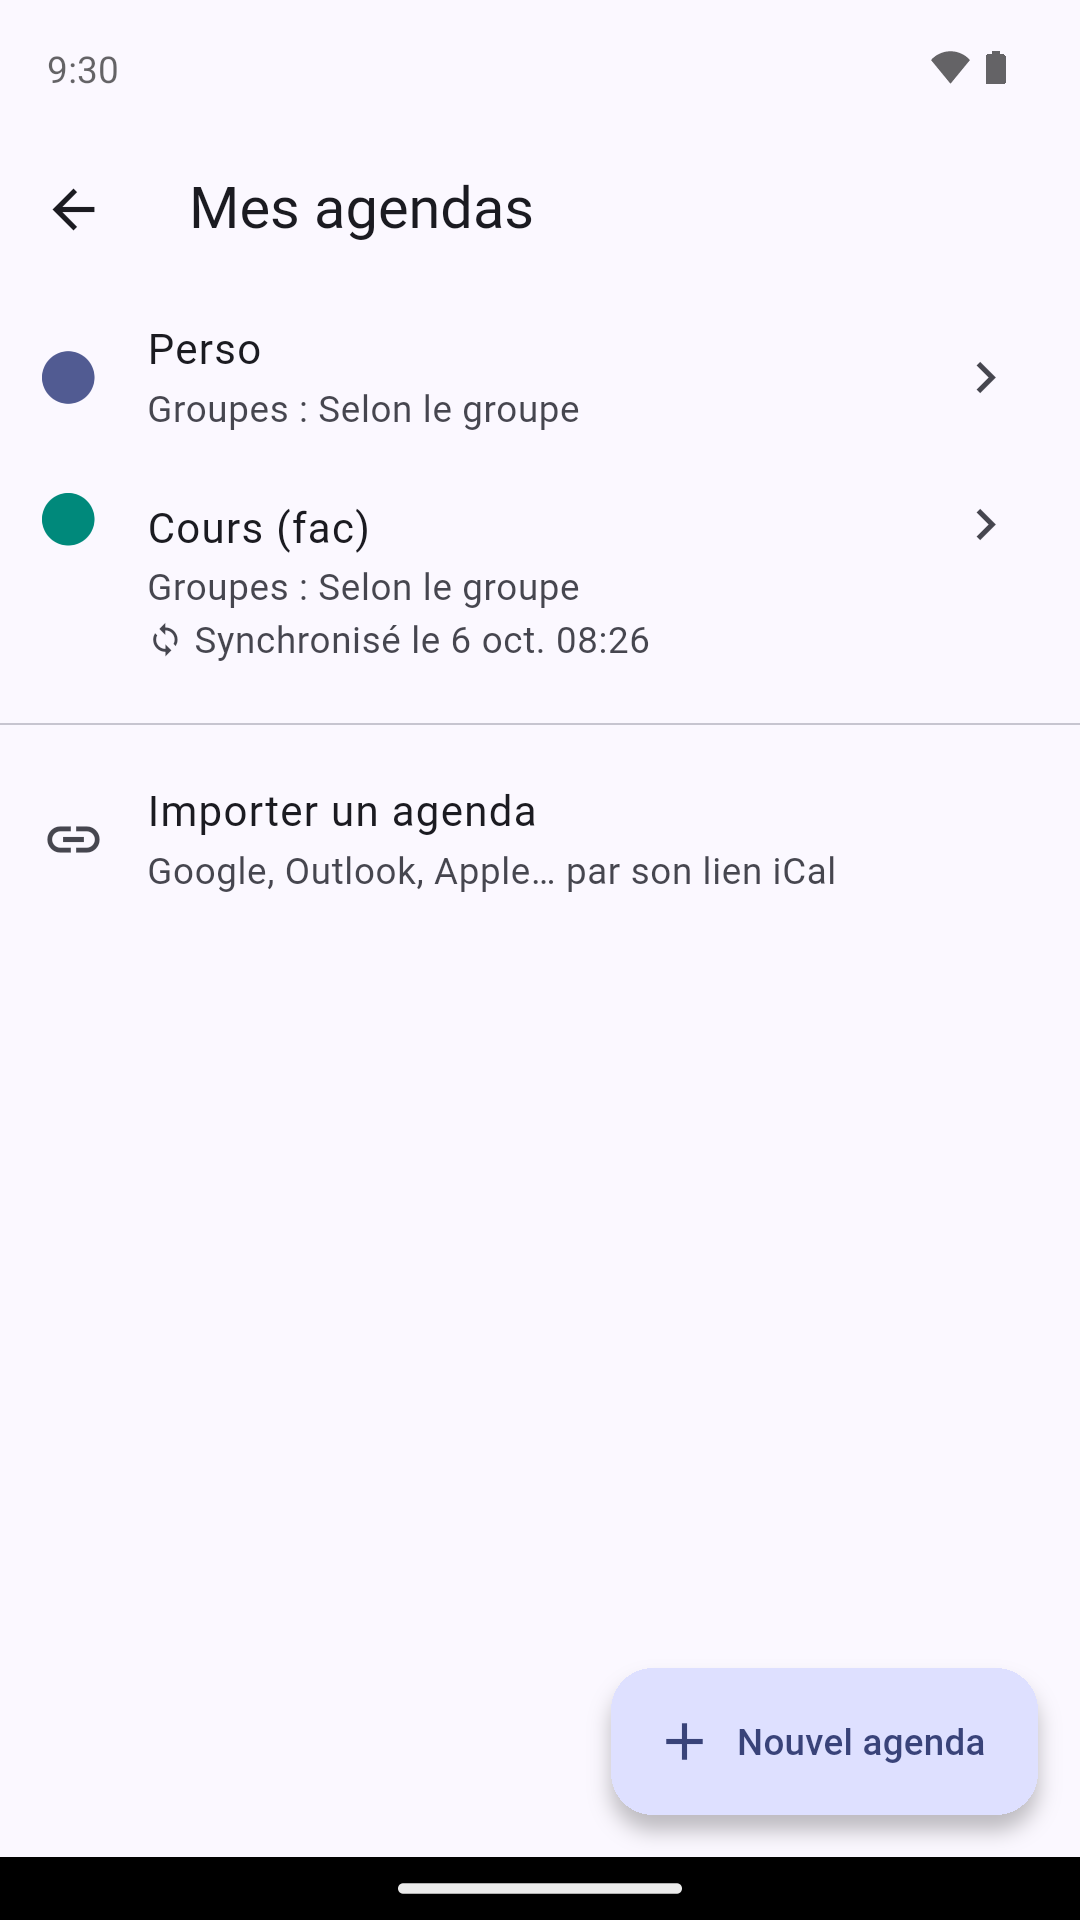
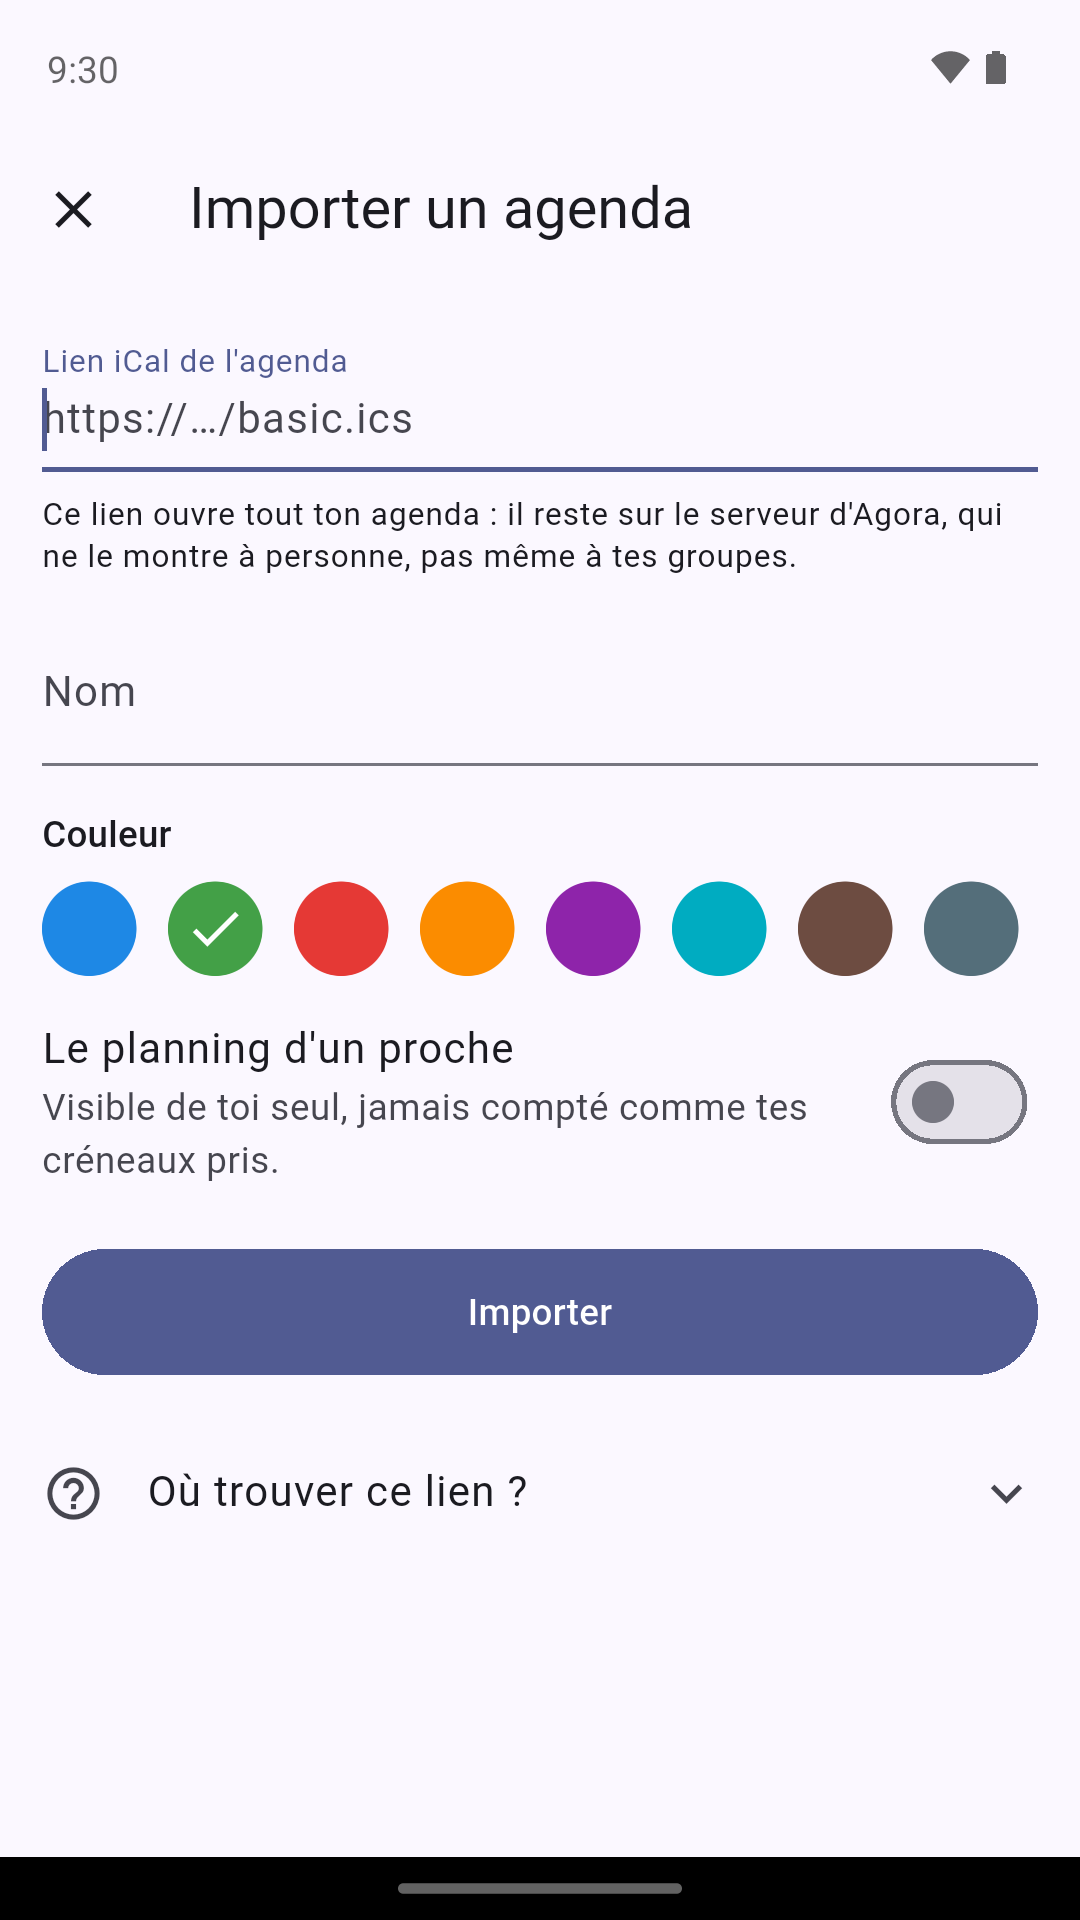
docs(store): capture 06 = l'écran d'import iCal, notes 0.8.2+14 publiée sur alpha

diff --git a/app/store/README.md b/app/store/README.md
@@ -27,7 +27,7 @@ fiche.
 Huit captures, dans l'ordre de la fiche : `01-agenda` (vue Planning),
 `02-groupe` (Coloc), `03-social` (onglet Social : anniversaire à venir, proche,
 groupes), `04-creneaux` (Trouver un créneau), `05-rdv` (la Raclette et ses
-réponses), `06-import` (Moi → Mes agendas), `07-proche` (la page de Hugo),
+réponses), `06-import` (Moi → Mes agendas → Importer un agenda, clavier fermé), `07-proche` (la page de Hugo),
 `08-mois` (vue Mois : pastilles et liste du jour).
 
 ```bash
@@ -314,6 +314,16 @@ Français, envoyées sur `alpha` :
 
 ```
 Vue Mois sur téléphone : les rendez-vous d'un même jour s'affichent tous en pastilles, au lieu d'un « +1 » dès le deuxième.
+
+Vos retours : heianenterpriseyt@gmail.com
+```
+
+### Notes de version — 0.8.2+14 (tutoiement partout)
+
+Français, envoyées sur `alpha` :
+
+```
+L'application vous tutoie désormais partout : les quelques écrans qui vous vouvoyaient encore sont harmonisés.
 
 Vos retours : heianenterpriseyt@gmail.com
 ```
